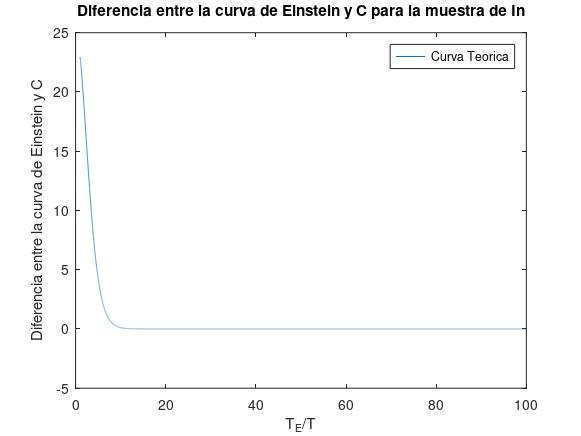
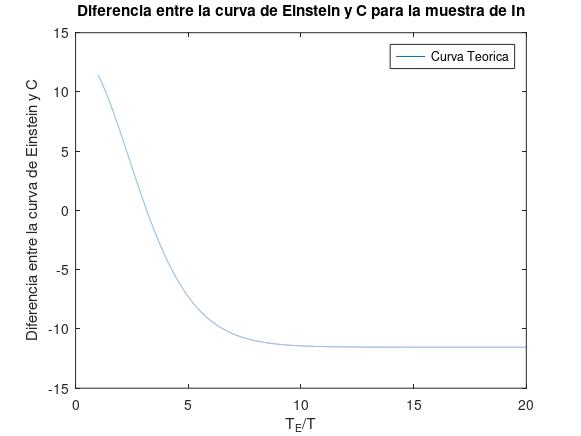
Correciones en temperatura Indio y Plomo practica 4 EFM

diff --git a/EFM20212/4/Indio/temperaturaIndio.m b/EFM20212/4/Indio/temperaturaIndio.m
@@ -1,7 +1,7 @@
 clear all; close all;
-x = 1:0.01:100; 
+x = 1:0.001:20; 
 R = 8.31446261815324; T = 185; % constante de los gases ideales R y temperatura promedio
-c = 8.7532e-04; % <---------- SELECCIONAR calor especifico molar 
+c = 11.540; % <---------- SELECCIONAR calor especifico molar 
 y =3*R*(x.^2).*((exp(x))./((exp(x)-1).^2)) - c;
 plot (x,y); plot (x,y); xlabel('T_{E}/T'); ylabel('Diferencia entre la curva de Einstein y C'); legend('Curva Teorica'); title('Diferencia entre la curva de Einstein y C para la muestra de In')
 print -djpeg -r100 temperaturamuestraindio.jpg

diff --git a/EFM20212/4/Plomo/temperaturaPlomo.m b/EFM20212/4/Plomo/temperaturaPlomo.m
@@ -1,7 +1,7 @@
 clear all; close all;
-x = 1:0.01:100; 
+x = 1:0.001:20; 
 R = 8.31446261815324; T = 185; % constante de los gases ideales R y temperatura promedio
-c = 6.0552e-04; % <---------- SELECCIONAR calor especifico molar 
+c = 25.996; % <---------- SELECCIONAR calor especifico molar 
 y =3*R*(x.^2).*((exp(x))./((exp(x)-1).^2)) - c;
 plot (x,y); plot (x,y); xlabel('T_{E}/T'); ylabel('Diferencia entre la curva de Einstein y C'); legend('Curva Teorica'); title('Diferencia entre la curva de Einstein y C para la muestra de Pb')
 print -djpeg -r100 temperaturamuestraplomo.jpg
